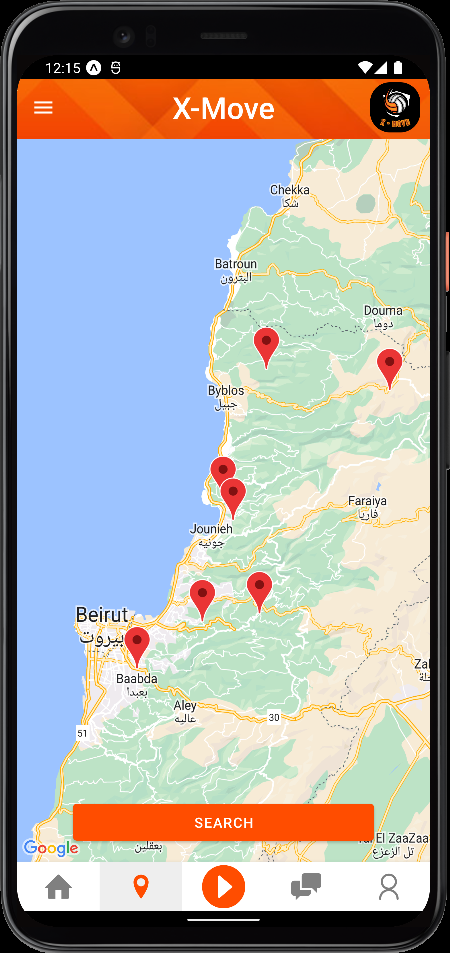
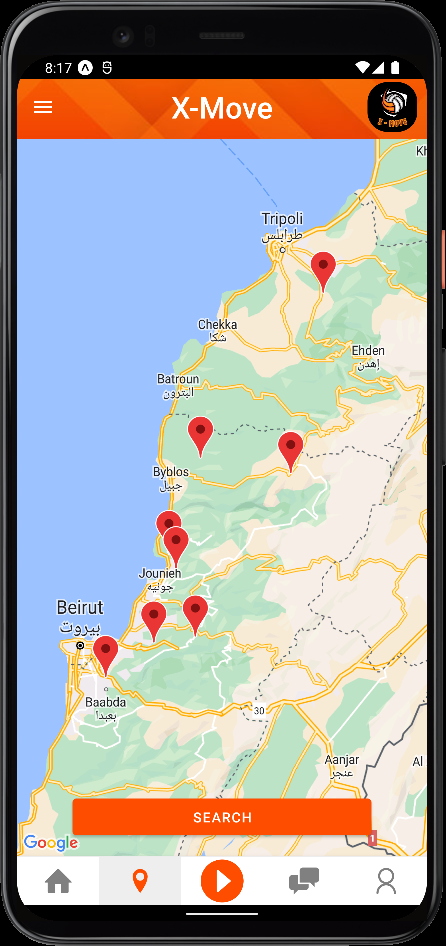
X-Move: README.md v1 Added map section and images

diff --git a/README.md b/README.md
@@ -95,16 +95,19 @@ Here's a brief high-level overview of the tech stack the Well app uses:
 
 <br><br>
 
-| Players                                                          | Player Profile                                                         |
+| Map                                                          | Search Modal                                                       | Search Players                                                  |
+| ------------------------------------------------------------ | ------------------------------------------------------------------ | --------------------------------------------------------------- |
+| <img src="readme/mobile/map.png" width="250" height="500" /> | <img src="readme/mobile/mapSearch.png" width="250" height="500" /> | <img src="readme/videos/mapGif.gif" width="250" height="500" /> |
+
+| Map                                                          |
+| ------------------------------------------------------------ |
+| <img src="readme/mobile/map.png" width="250" height="500" /> |
+
+<br><br>
+<br><br>
+| Players | Player Profile |
 | ---------------------------------------------------------------- | ---------------------------------------------------------------------- |
 | <img src="readme/mobile/Players.png" width="250" height="500" /> | <img src="readme/mobile/playerprofile.png" width="250" height="500" /> |
-
-<br><br>
-<br><br>
-
-| Map                                                          | Fields                                                          |
-| ------------------------------------------------------------ | --------------------------------------------------------------- |
-| <img src="readme/mobile/map.png" width="250" height="500" /> | <img src="readme/mobile/fields.png" width="250" height="500" /> |
 
 <br><br>
 
